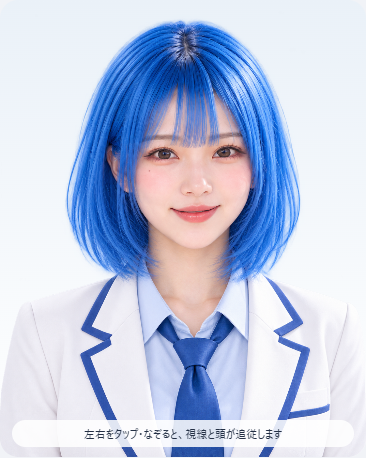
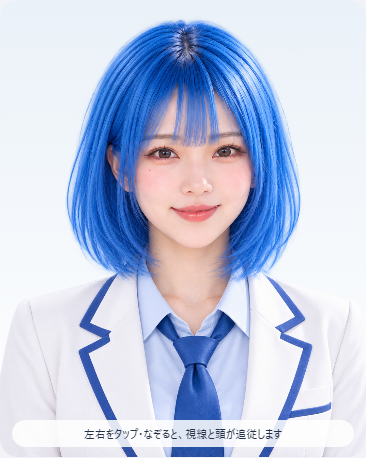
fix: attach upper teeth to lip shape and shade mouth interior

diff --git a/studies/continuity/index.html b/studies/continuity/index.html
@@ -1,3 +1,3 @@
 <!doctype html><html lang="ja"><meta charset="utf-8"><meta name="viewport" content="width=device-width,initial-scale=1"><link rel="icon" href="data:,"><title>響V3 接続品質の比較試作</title>
 <style>*{box-sizing:border-box}body{margin:0;background:#f1f3f7;color:#243045;font:15px system-ui}main{max-width:1080px;margin:auto;padding:20px}h1{font-size:22px;margin:0 0 8px}p{line-height:1.7}header p{margin:0;color:#536176}.layout{display:grid;grid-template-columns:minmax(0,1fr) 300px;gap:20px;margin-top:20px}#stage{position:relative;aspect-ratio:1122/1402;max-height:82vh;background:linear-gradient(#eaf1f8,#fff);border-radius:18px;overflow:hidden;touch-action:pan-y}#stage.dark{background:#142031}canvas{display:block;width:100%;height:100%;object-fit:contain}aside{background:white;padding:18px;border-radius:16px;align-self:start}button,a.download{display:inline-block;padding:11px 14px;border:1px solid #c7d3e3;background:white;color:#183454;border-radius:9px;margin:3px;cursor:pointer;text-decoration:none}button.primary{background:#244f9e;color:#fff;border-color:#244f9e}button[aria-pressed=true]{outline:2px solid #568ad3}label{display:block;margin:15px 0}label:has(input[type=checkbox]){margin:12px 0}input[type=range]{width:100%}small,#status{display:block;line-height:1.6;color:#536176}.hint{position:absolute;bottom:10px;left:12px;right:12px;text-align:center;background:#ffffffd9;border-radius:20px;font-size:12px;padding:6px;pointer-events:none}.buttons{display:flex;flex-wrap:wrap}details{margin-top:14px}a{color:#244f9e}@media(max-width:700px){main{padding:12px}.layout{grid-template-columns:1fr;gap:12px}#stage{max-height:none;width:min(100%,480px);margin:auto}aside{padding:14px}h1{font-size:20px}.hint{font-size:11px}}@media(prefers-reduced-motion:reduce){*{scroll-behavior:auto}}</style>
-<main><header><h1>響V3 · 接続品質の比較試作</h1><p>顔・首・スーツをつなぐ連続メッシュ。胸・肩の呼吸と、頭に少し遅れる上半身の追従を確認できます。</p></header><div class="layout"><section id="stage"><div class="hint">左右をタップ・なぞると、視線と頭が追従します</div></section><aside><div class="buttons"><button class="primary" id="greet">右手で挨拶</button><button class="primary" id="demo" aria-pressed="false">オートデモ</button><button id="reset">正面へ戻す</button><button id="blink">瞬き</button></div><p id="greetingStatus" role="status">右手（画面左側）だけの挨拶 · 約6秒</p><p id="demoStatus" role="status">感情・発話・身体を組み合わせて再生</p><label>V2状態 <select id="state"><option value="idle">idle · 待機</option><option value="attention">attention · 注目</option><option value="thinking">thinking · 思考</option><option value="speaking">speaking · 発話</option><option value="happy">happy · 喜び</option><option value="notify">notify · 通知</option><option value="concern">concern · 心配</option><option value="error">error · エラー</option><option value="sleep">sleep · 休息</option><option value="wake">wake · 復帰</option></select></label><small id="phase">idle / normal</small><label>感情（状態と独立） <select id="emotion"><option value="auto">状態に合わせる</option><option value="neutral">中立</option><option value="gentle">微笑み</option><option value="smile">笑顔</option><option value="joy">喜び</option><option value="surprise">驚き</option><option value="concern">困惑</option><option value="sadness">悲しみ</option><option value="thinking">思考</option><option value="shy">照れ</option></select></label><label>頭の左右への追従 <input id="yaw" type="range" min="-1" max="1" step="0.01" value="0"></label><label>頭の上下への追従 <input id="pitch" type="range" min="-1" max="1" step="0.01" value="0"></label><label>微笑み <input id="smile" type="range" min="0" max="1" step="0.01" value="0"></label><label>口の開閉 <input id="mouth" type="range" min="0" max="1" step="0.01" value="0"></label><label><input id="idle" type="checkbox" checked> 呼吸と微細な待機動作</label><label><input id="static" type="checkbox"> 静止表示</label><label><input id="dark" type="checkbox"> 暗い背景で境界を見る</label><label><input id="wire" type="checkbox"> メッシュを表示</label><label>接合部を拡大 <select id="zoom"><option value="full">全体</option><option value="neck">顔・首・髪</option><option value="face">眼・口</option><option value="body">襟・肩・スーツ</option></select></label><p id="status">素材を読み込み中…</p><small>正面寄りの小さな動きを対象とします。大きな横顔・衣装交換の完成版ではありません。</small><details><summary>音量同期（端末内で処理）</summary><button id="chooseAudio">音声ファイル</button><input id="audioFile" type="file" accept="audio/*" hidden><button id="tone">テスト音量</button><button id="stopAudio">音声を停止</button><small id="audioStatus">音声なし · 発話状態では疑似口パク</small><small>ファイルはアップロードしません。マイクは使用しません。</small></details><details><summary>素材と比較</summary><p><a href="../../legacy.html" target="_blank">従来版を別タブで見る</a></p><p><a class="download" href="materials/hibiki-continuity.psd">レイヤーPSD</a><a class="download" href="materials/neutral-composite.png">素材の合成PNG</a></p></details></aside></div></main><script type="module">import('./app.js?v=presence-20261022').catch(error=>{const stage=document.querySelector('#stage');stage.querySelector('canvas')?.remove();const img=new Image();img.src='../../assets/approved-front.png';img.alt='承認済みの響・静止表示';img.style.width='100%';stage.prepend(img);document.querySelector('#status').textContent='動作を開始できないため静止表示しています。 '+error.message;document.querySelectorAll('button,input,select').forEach(e=>e.disabled=true);window.studyError=error.message;});</script></html>
+<main><header><h1>響V3 · 接続品質の比較試作</h1><p>顔・首・スーツをつなぐ連続メッシュ。胸・肩の呼吸と、頭に少し遅れる上半身の追従を確認できます。</p></header><div class="layout"><section id="stage"><div class="hint">左右をタップ・なぞると、視線と頭が追従します</div></section><aside><div class="buttons"><button class="primary" id="greet">右手で挨拶</button><button class="primary" id="demo" aria-pressed="false">オートデモ</button><button id="reset">正面へ戻す</button><button id="blink">瞬き</button></div><p id="greetingStatus" role="status">右手（画面左側）だけの挨拶 · 約6秒</p><p id="demoStatus" role="status">感情・発話・身体を組み合わせて再生</p><label>V2状態 <select id="state"><option value="idle">idle · 待機</option><option value="attention">attention · 注目</option><option value="thinking">thinking · 思考</option><option value="speaking">speaking · 発話</option><option value="happy">happy · 喜び</option><option value="notify">notify · 通知</option><option value="concern">concern · 心配</option><option value="error">error · エラー</option><option value="sleep">sleep · 休息</option><option value="wake">wake · 復帰</option></select></label><small id="phase">idle / normal</small><label>感情（状態と独立） <select id="emotion"><option value="auto">状態に合わせる</option><option value="neutral">中立</option><option value="gentle">微笑み</option><option value="smile">笑顔</option><option value="joy">喜び</option><option value="surprise">驚き</option><option value="concern">困惑</option><option value="sadness">悲しみ</option><option value="thinking">思考</option><option value="shy">照れ</option></select></label><label>頭の左右への追従 <input id="yaw" type="range" min="-1" max="1" step="0.01" value="0"></label><label>頭の上下への追従 <input id="pitch" type="range" min="-1" max="1" step="0.01" value="0"></label><label>微笑み <input id="smile" type="range" min="0" max="1" step="0.01" value="0"></label><label>口の開閉 <input id="mouth" type="range" min="0" max="1" step="0.01" value="0"></label><label><input id="idle" type="checkbox" checked> 呼吸と微細な待機動作</label><label><input id="static" type="checkbox"> 静止表示</label><label><input id="dark" type="checkbox"> 暗い背景で境界を見る</label><label><input id="wire" type="checkbox"> メッシュを表示</label><label>接合部を拡大 <select id="zoom"><option value="full">全体</option><option value="neck">顔・首・髪</option><option value="face">眼・口</option><option value="body">襟・肩・スーツ</option></select></label><p id="status">素材を読み込み中…</p><small>正面寄りの小さな動きを対象とします。大きな横顔・衣装交換の完成版ではありません。</small><details><summary>音量同期（端末内で処理）</summary><button id="chooseAudio">音声ファイル</button><input id="audioFile" type="file" accept="audio/*" hidden><button id="tone">テスト音量</button><button id="stopAudio">音声を停止</button><small id="audioStatus">音声なし · 発話状態では疑似口パク</small><small>ファイルはアップロードしません。マイクは使用しません。</small></details><details><summary>素材と比較</summary><p><a href="../../legacy.html" target="_blank">従来版を別タブで見る</a></p><p><a class="download" href="materials/hibiki-continuity.psd">レイヤーPSD</a><a class="download" href="materials/neutral-composite.png">素材の合成PNG</a></p></details></aside></div></main><script type="module">import('./app.js?v=mouth-20261022').catch(error=>{const stage=document.querySelector('#stage');stage.querySelector('canvas')?.remove();const img=new Image();img.src='../../assets/approved-front.png';img.alt='承認済みの響・静止表示';img.style.width='100%';stage.prepend(img);document.querySelector('#status').textContent='動作を開始できないため静止表示しています。 '+error.message;document.querySelectorAll('button,input,select').forEach(e=>e.disabled=true);window.studyError=error.message;});</script></html>

diff --git a/studies/continuity/app.js b/studies/continuity/app.js
@@ -5,6 +5,7 @@ import {authorMaterials,readMaterials,exportPSD,eyes,WIDTH,HEIGHT} from './mater
 import {buildSurface,bakeKeys,readRig,deformSurface,skin,aperture,boneRig,clamp,smooth} from './rig.js?v=presence-20261022';
 import {PerformanceController,STATES,emotionDemo} from './emotion.js?v=presence-20261022';
 import {AudioDriver} from '../../engine.js?v=cage-4a';
+import {mouthBackground,drawUpperTeeth} from './mouth.js?v=mouth-20261022';
 const $=s=>document.querySelector(s),stage=$('#stage');
 const app=new Application();
 await app.init({width:WIDTH,height:HEIGHT,resolution:Math.min(devicePixelRatio||1,1.5),autoDensity:true,antialias:true,backgroundAlpha:0,preference:'webgl',preserveDrawingBuffer:true,autoStart:false});
@@ -19,7 +20,8 @@ function makeMesh(texture,rest,uvs,indices,crop){
  const mesh=new MeshSimple({texture:Texture.from(texture),vertices:new Float32Array(rest),uvs:new Float32Array(uvs),indices:new Uint32Array(indices)});mesh.autoUpdate=true;world.addChild(mesh);return mesh;
 }
 const rect=(x,y,w,h)=>[x,y,x+w,y,x+w,y+h,x,y+h],quadIndices=[0,1,2,0,2,3];
-const cavityRest=rect(510,620,180,100),cavity=makeMesh(materials.cavity,cavityRest,cavityRest.map((v,i)=>v/(i%2?HEIGHT:WIDTH)),quadIndices,[510,620,180,100]);
+const cavityRest=rect(510,620,180,100),cavity=makeMesh(mouthBackground(),cavityRest,cavityRest.map((v,i)=>v/(i%2?HEIGHT:WIDTH)),quadIndices,[510,620,180,100]);
+const upperTeeth=new Graphics();world.addChild(upperTeeth);
 const main=makeMesh(materials.base,surface.rest,surface.uvs,surface.indices);
 const irises=eyes.map((e,i)=>{const rest=rect(e.cx-24,e.cy-24,48,48),mesh=makeMesh(materials.irises[i],rest,rest.map((v,j)=>v/(j%2?HEIGHT:WIDTH)),quadIndices,i?[657,445,47,47]:[474,451,47,47]),mask=new Graphics();world.addChild(mask);mesh.mask=mask;return {mesh,mask,rest};});
 const closedCorrectives=eyes.map((e,i)=>{const ids=[];for(let j=0;j<surface.indices.length;j+=3){const tri=surface.indices.slice(j,j+3);if([...tri].some(k=>surface.rest[k*2]>e.x0-45&&surface.rest[k*2]<e.x1+45&&surface.rest[k*2+1]>410&&surface.rest[k*2+1]<545))ids.push(...tri);}return makeMesh(materials.closedEyes[i],surface.rest,surface.uvs,ids,[e.x0-20,428,e.x1-e.x0+40,93]);});
@@ -60,6 +62,7 @@ function draw(p){
  const pos=deformSurface(surface,p);main.vertices.set(pos);main.geometry.getBuffer('aPosition').update();
  cheekMesh.alpha=p.blush||0;cheekMesh.visible=cheekMesh.alpha>.001;if(cheekMesh.visible){cheekMesh.vertices.set(pos);cheekMesh.geometry.getBuffer('aPosition').update();}
  for(let j=0;j<8;j+=2)cavity.vertices.set(skin(cavityRest[j],cavityRest[j+1],p),j);cavity.geometry.getBuffer('aPosition').update();
+ drawUpperTeeth(upperTeeth,p);
  for(const [i,r]of irises.entries()){
   r.mesh.visible=p['eye'+i]>.1;
   for(let j=0;j<8;j+=2)r.mesh.vertices.set(skin(r.rest[j]+p.gazeX*5,r.rest[j+1]+p.gazeY*2.8,p),j);

diff --git a/studies/continuity/mouth.js b/studies/continuity/mouth.js
@@ -1,0 +1,27 @@
+import {WIDTH,HEIGHT,seam} from './materials.js';
+import {localShape,createSkin,clamp} from './rig.js?v=presence-20261022';
+
+// Independently authored tissue shading; no second mouth photograph behind the lips.
+export function mouthBackground(){
+ const canvas=document.createElement('canvas');canvas.width=WIDTH;canvas.height=HEIGHT;
+ const c=canvas.getContext('2d'),shade=c.createLinearGradient(0,636,0,679);
+ shade.addColorStop(0,'#66353d');shade.addColorStop(.45,'#85454e');shade.addColorStop(1,'#b5767b');
+ c.fillStyle=shade;c.beginPath();c.ellipse(594,654,80,31,0,0,Math.PI*2);c.fill();
+ const tissue=c.createRadialGradient(594,670,2,594,670,35);
+ tissue.addColorStop(0,'rgba(202,126,135,.75)');tissue.addColorStop(1,'rgba(179,100,112,0)');
+ c.fillStyle=tissue;c.fillRect(544,644,100,41);return canvas;
+}
+
+// The upper dental arch stays attached to the upper lip, independently of the lower jaw.
+// The continuous face surface occludes it at closed lips and around the mouth corners.
+export function drawUpperTeeth(graphics,p){
+ graphics.clear();const project=createSkin(p),depth=3.3+clamp(p.smile||0);
+ for(const [top,bottom,color] of [[0,.2,0xb6a59d],[.2,.82,0xdfd4c6],[.82,1,0xc3b1a5]]){
+  const points=[];
+  for(const [start,end,step,offset]of [[0,32,1,top],[32,0,-1,bottom]])for(let j=start;step>0?j<=end:j>=end;j+=step){
+   const x=538+112*j/32,w=Math.sin(Math.PI*(x-522)/144),arch=Math.sin(Math.PI*j/32),q=localShape(x,seam(x)-.45*w,p);
+   points.push(...project(q[0],q[1]+.85*w+offset*depth*arch));
+  }
+  graphics.poly(points).fill(color);
+ }
+}

diff --git a/index.html b/index.html
@@ -1,1 +1,1 @@
-<!doctype html><html lang="ja"><meta charset="utf-8"><meta name="viewport" content="width=device-width,initial-scale=1"><meta http-equiv="refresh" content="0;url=studies/continuity/?v=presence-20261022"><title>響V3 改善版プレビュー</title><p><a href="studies/continuity/?v=presence-20261022">響V3 改善版を開く</a></p><p><a href="legacy.html">従来版</a></p><script>location.replace(new URL("studies/continuity/?v=presence-20261022",location.href).href)</script></html>
+<!doctype html><html lang="ja"><meta charset="utf-8"><meta name="viewport" content="width=device-width,initial-scale=1"><meta http-equiv="refresh" content="0;url=studies/continuity/?v=mouth-20261022"><title>響V3 改善版プレビュー</title><p><a href="studies/continuity/?v=mouth-20261022">響V3 改善版を開く</a></p><p><a href="legacy.html">従来版</a></p><script>location.replace(new URL("studies/continuity/?v=mouth-20261022",location.href).href)</script></html>

diff --git a/studies/continuity/README.md b/studies/continuity/README.md
@@ -6,6 +6,8 @@ Issue [#94](https://github.com/ankhaurum/Ankhaurum-Development/issues/94)。GitH
 
 ## 振る舞い・笑顔の改善（2026-10-22）
 
+口内が黒い空洞に見えるという追加指摘への対応：従来の口内は固定位置に口写真を薄く重ねた下地で、歯が上唇に追従していませんでした。実行時は`mouth.js`の暖色の口内陰影と、上唇の局所形状・頭部変形へ追従する小さな上歯の輪郭を使います。閉口と口角では共有顔面に隠れ、口の開閉で見える範囲が変わります。初回の白線状の見え方も画像で確認し、歯列の幅・先細り・陰影を調整しました。原画と唇・顔の画素は変更していません。これは描画時の補正で、配布PSDは従来の基礎素材、追加歯形はコード上の形状です。個々の歯・舌の独立リグや音素別の口内作画が完成したという意味ではありません。
+
 `presence.js`に視線の滞在と短い移動、不規則な瞬き間隔、吸気／呼気の異なる時間配分、音節の開閉と休止を分離した擬似発話をまとめました。入力された視線は待機動作で上書きしません。実音声・外部音量がある場合は従来の音量同期を優先し、音素認識を実装したという意味ではありません。
 
 笑顔・喜びには、上まぶたを保ち下まぶたを上げる局所形状補正を制作し、虹彩マスクにも同じ輪郭を適用しました。閉眼では補正を消して既存の瞬き素材へつなぎます。上腕・前腕・体幹の支え・手首は別の時間トラックで予備動作から復帰まで合成します。画像容量・依存ライブラリは追加していません。
